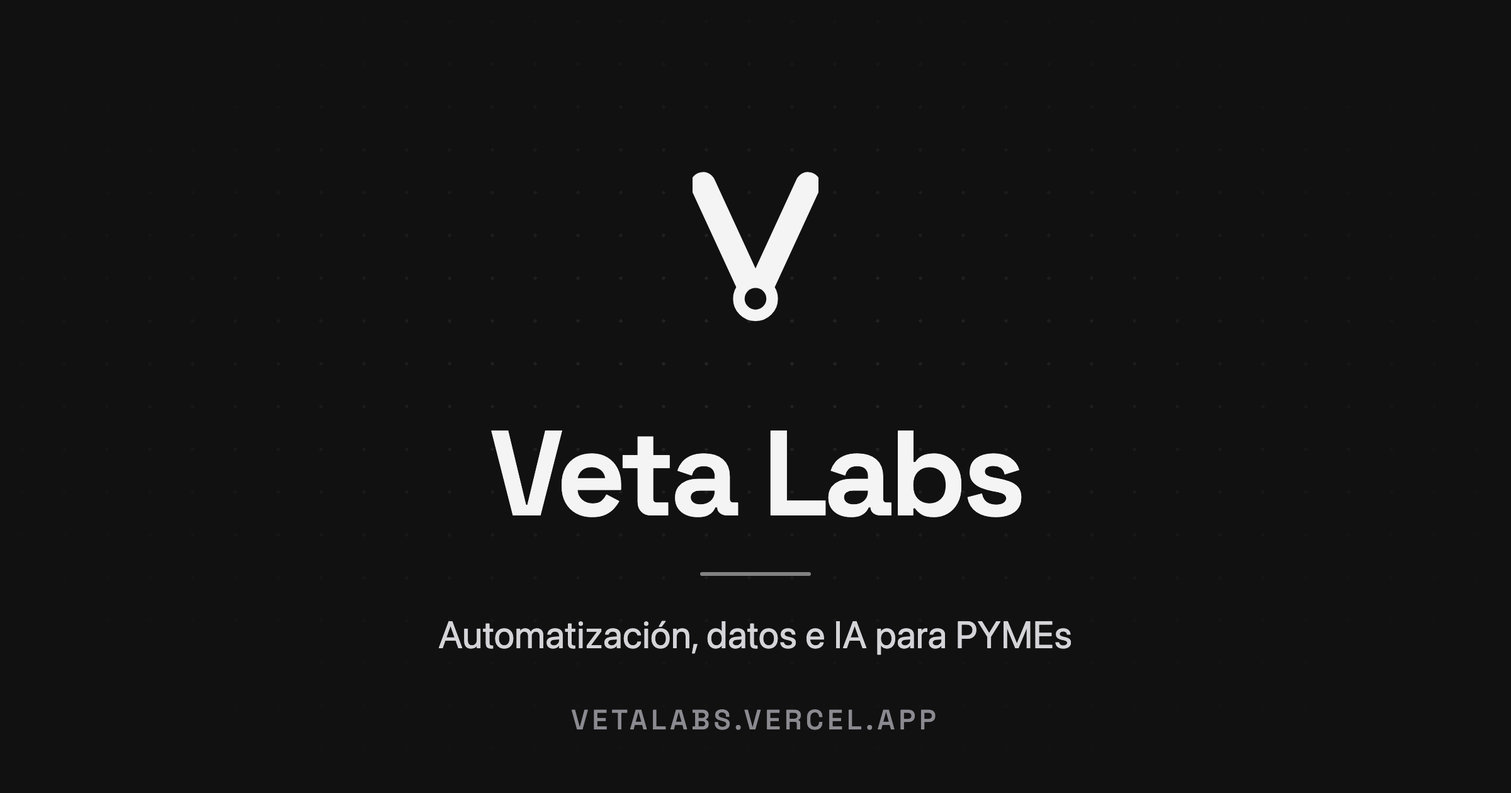
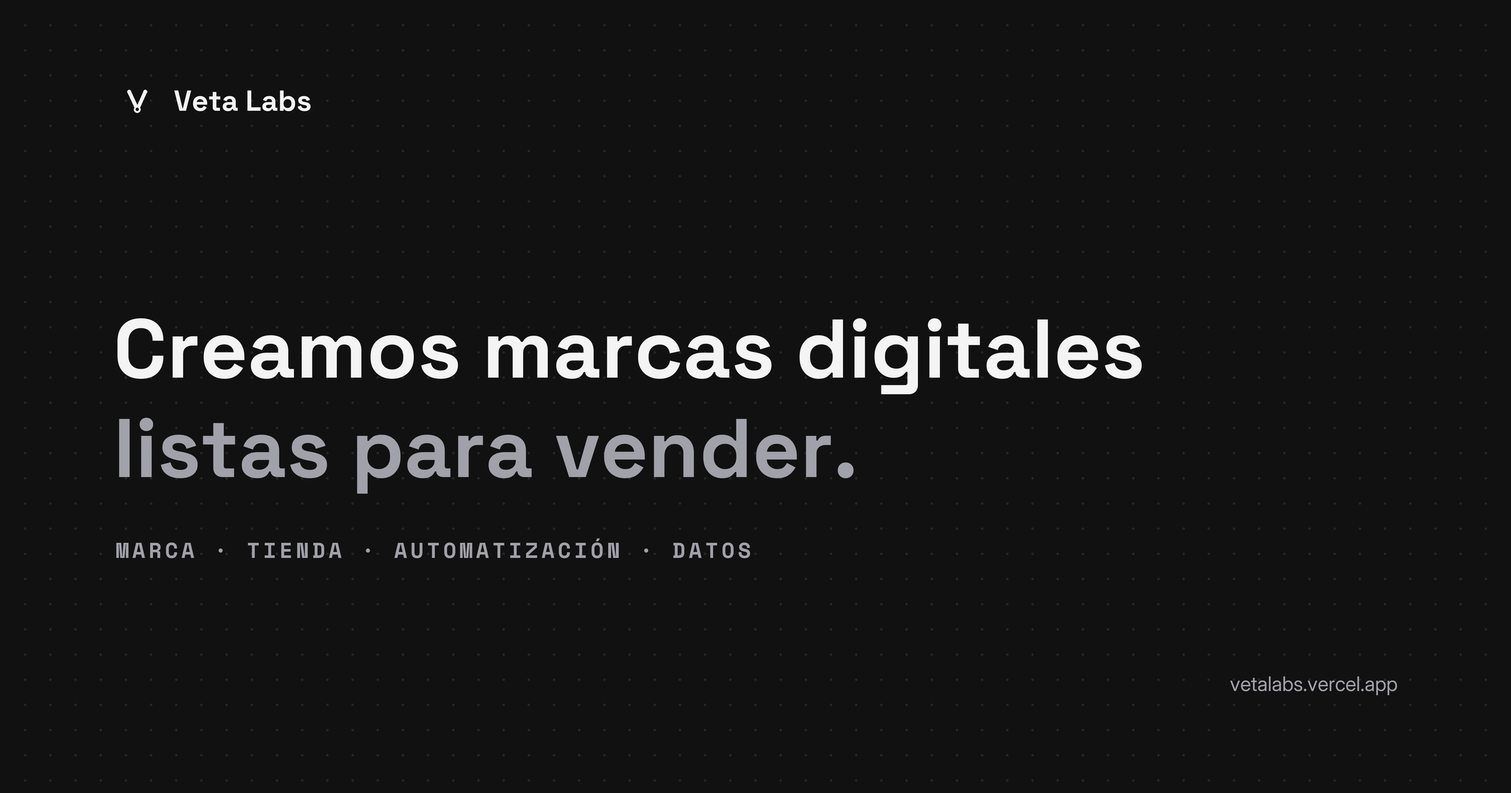
Realinear el sitio al posicionamiento de marcas de e-commerce
El contexto maestro (13-08-2026) redefine Veta Labs como creadora de marcas
digitales de e-commerce, y marca el sitio como desalineado. Esto lo corrige.

- Título SEO, descripción, Open Graph y Twitter: de "automatización e
  inteligencia de datos para PYMEs" a creación de marcas de e-commerce
- Hero: "Creamos marcas digitales listas para vender", con los CTA del manual
- Servicios: las cinco tarjetas eran cinco negocios separados; ahora son las
  cinco partes de un mismo proceso, numeradas y sin emojis
- Proceso: pasa a diagnóstico → estrategia → construcción → lanzamiento
- Resultados: se retiran las cifras -70%, 3x y +40h. Eran de automatización y
  no hay evidencia publicable; el contexto maestro prohíbe métricas sin
  respaldo. En su lugar va lo que el cliente sí recibe
- Proyectos: CheckYourCars y CheckYourWeb pasan de ser la propuesta central a
  evidencia de capacidad técnica, con etiquetas por capacidad y no por servicio
- Formulario: "¿Qué quieres automatizar?" → "¿Qué quieres vender?"
- Pie: "Automatización · IA · Software" → "Marca · Tienda · Automatización · Datos"
- Se retiran los beige fuera de paleta (#c5bdb2, #b8b2aa, #d0c7b8, #a89c8f)

Banner de link preview regenerado con el mensaje vigente y el isotipo nuevo.
El anterior decía "Automatización, datos e IA para PYMEs".

diff --git a/index.html b/index.html
@@ -3,8 +3,8 @@
 <head>
   <meta charset="utf-8">
   <meta name="viewport" content="width=device-width, initial-scale=1">
-  <title>Veta Labs — Automatización e inteligencia de datos para PYMEs</title>
-  <meta name="description" content="Veta Labs automatiza procesos, integra datos y construye software, dashboards e IA para PYMEs. 100% remoto en Chile.">
+  <title>Veta Labs — Creamos marcas digitales de e-commerce</title>
+  <meta name="description" content="Veta Labs crea marcas digitales de e-commerce listas para vender: identidad, tienda online, automatización, IA y datos. 100% remoto en Chile.">
   <meta name="author" content="Veta Labs">
   <meta name="theme-color" content="#111111">
   <link rel="canonical" href="https://vetalabs.vercel.app/">
@@ -14,8 +14,8 @@
   <meta property="og:locale" content="es_CL">
   <meta property="og:url" content="https://vetalabs.vercel.app/">
   <meta property="og:site_name" content="Veta Labs">
-  <meta property="og:title" content="Veta Labs — Automatización e inteligencia de datos para PYMEs">
-  <meta property="og:description" content="Automatizamos procesos, integramos datos y construimos software, dashboards e IA para que tu negocio crezca con calma. 100% remoto en Chile.">
+  <meta property="og:title" content="Veta Labs — Creamos marcas digitales de e-commerce">
+  <meta property="og:description" content="De tu idea a una marca lista para vender. Identidad, tienda online, automatización, IA y datos en un solo proceso.">
   <meta property="og:image" content="https://vetalabs.vercel.app/og-image.png">
   <meta property="og:image:type" content="image/png">
   <meta property="og:image:width" content="2400">
@@ -23,8 +23,8 @@
   <meta property="og:image:alt" content="Isotipo de Veta Labs">
   <!-- Twitter -->
   <meta name="twitter:card" content="summary_large_image">
-  <meta name="twitter:title" content="Veta Labs — Automatización e inteligencia de datos para PYMEs">
-  <meta name="twitter:description" content="Automatizamos procesos, integramos datos y construimos software, dashboards e IA para que tu negocio crezca con calma.">
+  <meta name="twitter:title" content="Veta Labs — Creamos marcas digitales de e-commerce">
+  <meta name="twitter:description" content="De tu idea a una marca lista para vender. Identidad, tienda online, automatización, IA y datos en un solo proceso.">
   <meta name="twitter:image" content="https://vetalabs.vercel.app/og-image.png">
   <meta name="twitter:image:alt" content="Isotipo de Veta Labs">
   <link rel="preconnect" href="https://fonts.googleapis.com">
@@ -37,7 +37,7 @@
   a{color:inherit;text-decoration:none}
   input,textarea{font-family:inherit}
   input:focus,textarea:focus{outline:none;border-color:#71717a !important}
-  ::placeholder{color:#a89c8f}
+  ::placeholder{color:#a1a1aa}
   @keyframes riseIn{from{opacity:0;transform:translateY(20px)}to{opacity:1;transform:none}}
   @keyframes pulseDot{0%,100%{box-shadow:0 0 0 0 rgba(17,17,17,.45)}70%{box-shadow:0 0 0 7px rgba(17,17,17,0)}}
 </style>
@@ -69,25 +69,25 @@
     <div style="max-width:1120px;margin:0 auto;padding:16px clamp(20px,4vw,44px);display:flex;align-items:center;justify-content:space-between;gap:20px;flex-wrap:wrap">
       <a href="#top" style="font:700 18px 'Space Grotesk',sans-serif;letter-spacing:-.02em;display:flex;align-items:center;gap:10px"><svg width="24" height="24" viewBox="0 0 64 64" aria-hidden="true" style="flex:none"><mask id="vt-nav"><rect width="64" height="64" fill="#fff"/><circle cx="32" cy="45.5" r="3" fill="#000"/></mask><g mask="url(#vt-nav)" fill="none" stroke="var(--brand)"><path d="M17.5 14L32 45.5L46.5 14" stroke-width="7" stroke-linecap="round" stroke-linejoin="round"/><circle cx="32" cy="45.5" r="4.6" stroke-width="3.2"/></g></svg>Veta Labs</a>
       <div style="display:flex;gap:26px;align-items:center;font:500 14.5px 'Inter',sans-serif;color:#52525b;flex-wrap:wrap">
-        <a href="#servicios" data-navlink="servicios" style="transition:color .2s" style-hover="color:#111111">Servicios</a>
+        <a href="#servicios" data-navlink="servicios" style="transition:color .2s" style-hover="color:#111111">Qué incluye</a>
         <a href="#proceso" data-navlink="proceso" style="transition:color .2s" style-hover="color:#111111">Proceso</a>
-        <a href="#resultados" data-navlink="resultados" style="transition:color .2s" style-hover="color:#111111">Resultados</a>
-        <a href="#proyectos" data-navlink="proyectos" style="transition:color .2s" style-hover="color:#111111">Proyectos</a>
+        <a href="#resultados" data-navlink="resultados" style="transition:color .2s" style-hover="color:#111111">Qué recibes</a>
+        <a href="#proyectos" data-navlink="proyectos" style="transition:color .2s" style-hover="color:#111111">Evidencia</a>
         <a href="#sobre-mi" data-navlink="sobre-mi" style="transition:color .2s" style-hover="color:#111111">Nosotros</a>
       </div>
-      <a href="#contacto" style="padding:11px 22px;background:var(--brand);color:#f4f4f5;border-radius:100px;font:600 14.5px 'Inter',sans-serif;transition:opacity .2s" style-hover="opacity:.85">Agenda tu reunión</a>
+      <a href="#contacto" style="padding:11px 22px;background:var(--brand);color:#f4f4f5;border-radius:100px;font:600 14.5px 'Inter',sans-serif;transition:opacity .2s" style-hover="opacity:.85">Cuéntanos tu idea</a>
     </div>
   </div>
 
   <!-- ===== HERO ===== -->
   <div id="top" style="max-width:1180px;margin:0 auto;padding:clamp(44px,7vw,88px) clamp(20px,4vw,44px) clamp(32px,5vw,52px);display:grid;grid-template-columns:repeat(auto-fit,minmax(320px,1fr));gap:clamp(36px,5vw,60px);align-items:center">
     <div style="display:flex;flex-direction:column;align-items:flex-start;text-align:left">
-      <div style="display:inline-flex;align-items:center;gap:9px;padding:8px 16px;background:#fff;border:1px solid #e4e4e7;color:#3f3f46;border-radius:100px;font:600 13px 'Inter',sans-serif;margin-bottom:clamp(22px,3vw,30px);animation:riseIn .6s both" id="hero-badge"><span style="width:8px;height:8px;border-radius:50%;background:#111111;display:inline-block;animation:pulseDot 2.4s infinite"></span>Disponible para nuevos proyectos</div>
-      <h1 style="font:700 clamp(38px,6vw,62px)/1.04 'Space Grotesk',sans-serif;letter-spacing:-.03em;margin:0 0 22px;max-width:15ch;animation:riseIn .7s .06s both">Que la tecnología trabaje por ti, <span style="color:#a1a1aa">no al revés</span></h1>
-      <p style="font:400 clamp(17px,2.2vw,21px)/1.55 'Inter',sans-serif;color:#52525b;max-width:520px;margin:0 0 clamp(28px,4vw,40px);animation:riseIn .7s .14s both">Automatizamos tareas, implementamos IA y construimos el software y los dashboards que tu negocio necesita para crecer con calma.</p>
+      <div style="display:inline-flex;align-items:center;gap:9px;padding:8px 16px;background:#fff;border:1px solid #e4e4e7;color:#3f3f46;border-radius:100px;font:600 13px 'Inter',sans-serif;margin-bottom:clamp(22px,3vw,30px);animation:riseIn .6s both" id="hero-badge"><span style="width:8px;height:8px;border-radius:50%;background:#111111;display:inline-block;animation:pulseDot 2.4s infinite"></span>Marcas digitales para e-commerce</div>
+      <h1 style="font:700 clamp(38px,6vw,62px)/1.04 'Space Grotesk',sans-serif;letter-spacing:-.03em;margin:0 0 22px;max-width:15ch;animation:riseIn .7s .06s both">Creamos marcas digitales <span style="color:#a1a1aa">listas para vender</span></h1>
+      <p style="font:400 clamp(17px,2.2vw,21px)/1.55 'Inter',sans-serif;color:#52525b;max-width:520px;margin:0 0 clamp(28px,4vw,40px);animation:riseIn .7s .14s both">Construimos tu identidad, tu tienda online y tu operación digital en un solo proceso, con automatización, IA y datos.</p>
       <div style="display:flex;gap:12px;flex-wrap:wrap;animation:riseIn .7s .22s both">
-        <a href="#contacto" style="padding:16px 32px;background:var(--brand);color:#f4f4f5;border-radius:100px;font:700 15px 'Inter',sans-serif;transition:opacity .2s" style-hover="opacity:.85">Agenda una reunión</a>
-        <a href="#servicios" style="padding:16px 32px;background:#fff;border:1px solid #e4e4e7;border-radius:100px;font:600 15px 'Inter',sans-serif;transition:border-color .2s" style-hover="border-color:#111111">Ver servicios</a>
+        <a href="#contacto" style="padding:16px 32px;background:var(--brand);color:#f4f4f5;border-radius:100px;font:700 15px 'Inter',sans-serif;transition:opacity .2s" style-hover="opacity:.85">Cuéntanos tu idea</a>
+        <a href="#servicios" style="padding:16px 32px;background:#fff;border:1px solid #e4e4e7;border-radius:100px;font:600 15px 'Inter',sans-serif;transition:border-color .2s" style-hover="border-color:#111111">Ver cómo trabajamos</a>
       </div>
     </div>
     <div style="justify-self:center;width:100%;max-width:440px;animation:riseIn .8s .3s both">
@@ -100,24 +100,24 @@
   <!-- ===== TRUST STRIP ===== -->
   <div id="trust-strip" style="max-width:1000px;margin:0 auto;padding:clamp(28px,4vw,44px) clamp(20px,4vw,44px) clamp(48px,7vw,72px)">
     <div style="display:flex;flex-wrap:wrap;justify-content:center;gap:10px 26px;font:500 13.5px 'Inter',sans-serif;color:#71717a">
-      <span>100% remoto en todo Chile</span><span style="color:#d0c7b8">•</span><span>Respuesta en menos de 24 h</span><span style="color:#d0c7b8">•</span><span>Sin permanencia ni letra chica</span>
+      <span>100% remoto en todo Chile</span><span style="color:#d4d4d8">•</span><span>Respuesta en menos de 24 h</span><span style="color:#d4d4d8">•</span><span>Sin permanencia ni letra chica</span>
     </div>
   </div>
 
   <!-- ===== SERVICIOS ===== -->
   <div id="servicios" style="max-width:1120px;margin:0 auto;padding:clamp(40px,6vw,68px) clamp(20px,4vw,44px);scroll-margin-top:72px">
     <div data-reveal="0" style="text-align:center;margin-bottom:clamp(36px,5vw,52px)">
-      <div style="font:700 12px 'Space Mono',monospace;letter-spacing:.14em;color:#a1a1aa;margin-bottom:14px">SERVICIOS</div>
-      <h2 style="font:700 clamp(30px,4.5vw,42px) 'Space Grotesk',sans-serif;letter-spacing:-.02em;margin:0 0 12px">En qué te puedo ayudar</h2>
-      <p style="font:400 17px 'Inter',sans-serif;color:#52525b;margin:0">Cinco formas de sacarte trabajo de encima.</p>
+      <div style="font:700 12px 'Space Mono',monospace;letter-spacing:.14em;color:#a1a1aa;margin-bottom:14px">QUÉ INCLUYE</div>
+      <h2 style="font:700 clamp(30px,4.5vw,42px) 'Space Grotesk',sans-serif;letter-spacing:-.02em;margin:0 0 12px">Todo lo que tu marca necesita para vender</h2>
+      <p style="font:400 17px 'Inter',sans-serif;color:#52525b;margin:0">Un solo proceso, no cinco proveedores distintos.</p>
     </div>
     <div style="display:grid;grid-template-columns:repeat(auto-fit,minmax(280px,1fr));gap:20px">
-      <div data-reveal="0" style="background:#fff;border-radius:20px;padding:32px;border:1px solid #e6e6e8;transition:transform .28s ease,box-shadow .28s ease,border-color .28s ease" style-hover="transform:translateY(-5px);box-shadow:0 22px 44px -26px rgba(36,31,26,.4);border-color:#d4d4d8"><div style="width:48px;height:48px;border-radius:14px;background:#ebebed;display:flex;align-items:center;justify-content:center;font-size:23px;margin-bottom:18px">🚀</div><h3 style="font:600 20px 'Space Grotesk',sans-serif;margin:0 0 9px">Creación de SaaS</h3><p style="font:400 15.5px/1.55 'Inter',sans-serif;color:#52525b;margin:0">De la idea al producto: construimos tu plataforma web completa, del MVP al lanzamiento.</p></div>
-      <div data-reveal="0.06" style="background:#fff;border-radius:20px;padding:32px;border:1px solid #e6e6e8;transition:transform .28s ease,box-shadow .28s ease,border-color .28s ease" style-hover="transform:translateY(-5px);box-shadow:0 22px 44px -26px rgba(36,31,26,.4);border-color:#d4d4d8"><div style="width:48px;height:48px;border-radius:14px;background:#ebebed;display:flex;align-items:center;justify-content:center;font-size:23px;margin-bottom:18px">🤖</div><h3 style="font:600 20px 'Space Grotesk',sans-serif;margin:0 0 9px">Implementación de IA y agentes</h3><p style="font:400 15.5px/1.55 'Inter',sans-serif;color:#52525b;margin:0">Agentes que clasifican, responden y ejecutan tareas por ti: correos, cotizaciones, seguimiento.</p></div>
-      <div data-reveal="0.12" style="background:#fff;border-radius:20px;padding:32px;border:1px solid #e6e6e8;transition:transform .28s ease,box-shadow .28s ease,border-color .28s ease" style-hover="transform:translateY(-5px);box-shadow:0 22px 44px -26px rgba(36,31,26,.4);border-color:#d4d4d8"><div style="width:48px;height:48px;border-radius:14px;background:#ebebed;display:flex;align-items:center;justify-content:center;font-size:23px;margin-bottom:18px">⚙</div><h3 style="font:600 20px 'Space Grotesk',sans-serif;margin:0 0 9px">Automatizaciones</h3><p style="font:400 15.5px/1.55 'Inter',sans-serif;color:#52525b;margin:0">Conectamos tus herramientas —CRM, correo, planillas, facturación— y eliminamos el trabajo manual.</p></div>
-      <div data-reveal="0" style="background:#fff;border-radius:20px;padding:32px;border:1px solid #e6e6e8;transition:transform .28s ease,box-shadow .28s ease,border-color .28s ease" style-hover="transform:translateY(-5px);box-shadow:0 22px 44px -26px rgba(36,31,26,.4);border-color:#d4d4d8"><div style="width:48px;height:48px;border-radius:14px;background:#ebebed;display:flex;align-items:center;justify-content:center;font-size:23px;margin-bottom:18px">🌐</div><h3 style="font:600 20px 'Space Grotesk',sans-serif;margin:0 0 9px">Desarrollo web</h3><p style="font:400 15.5px/1.55 'Inter',sans-serif;color:#52525b;margin:0">Sitios y aplicaciones web a la medida de tu negocio, rápidos y fáciles de mantener.</p></div>
-      <div data-reveal="0.06" style="background:#fff;border-radius:20px;padding:32px;border:1px solid #e6e6e8;transition:transform .28s ease,box-shadow .28s ease,border-color .28s ease" style-hover="transform:translateY(-5px);box-shadow:0 22px 44px -26px rgba(36,31,26,.4);border-color:#d4d4d8"><div style="width:48px;height:48px;border-radius:14px;background:#ebebed;display:flex;align-items:center;justify-content:center;font-size:23px;margin-bottom:18px">📊</div><h3 style="font:600 20px 'Space Grotesk',sans-serif;margin:0 0 9px">Dashboards</h3><p style="font:400 15.5px/1.55 'Inter',sans-serif;color:#52525b;margin:0">Paneles que reúnen tus datos y te muestran qué pasa en tu negocio en tiempo real.</p></div>
-      <div data-reveal="0.12" style="background:var(--brand);color:#f4f4f5;border-radius:20px;padding:32px;display:flex;flex-direction:column;justify-content:center"><h3 style="font:600 20px 'Space Grotesk',sans-serif;margin:0 0 9px">¿No sabes por dónde partir?</h3><p style="font:400 15.5px/1.55 'Inter',sans-serif;color:#c5bdb2;margin:0 0 16px">Agenda una reunión y lo vemos juntos, sin compromiso.</p><a href="#contacto" style="font:700 14.5px 'Inter',sans-serif;color:#f4f4f5;transition:opacity .2s" style-hover="opacity:.7">Hablemos →</a></div>
+      <div data-reveal="0" style="background:#fff;border-radius:20px;padding:32px;border:1px solid #e6e6e8;transition:transform .28s ease,box-shadow .28s ease,border-color .28s ease" style-hover="transform:translateY(-5px);box-shadow:0 22px 44px -26px rgba(17,17,17,.3);border-color:#d4d4d8"><div style="font:700 12px 'Space Mono',monospace;color:#a1a1aa;letter-spacing:.1em;margin-bottom:16px">01</div><h3 style="font:600 20px 'Space Grotesk',sans-serif;margin:0 0 9px">Estrategia de marca</h3><p style="font:400 15.5px/1.55 'Inter',sans-serif;color:#52525b;margin:0">Posicionamiento, propuesta de valor, cliente ideal y el tono con que tu marca habla.</p></div>
+      <div data-reveal="0.06" style="background:#fff;border-radius:20px;padding:32px;border:1px solid #e6e6e8;transition:transform .28s ease,box-shadow .28s ease,border-color .28s ease" style-hover="transform:translateY(-5px);box-shadow:0 22px 44px -26px rgba(17,17,17,.3);border-color:#d4d4d8"><div style="font:700 12px 'Space Mono',monospace;color:#a1a1aa;letter-spacing:.1em;margin-bottom:16px">02</div><h3 style="font:600 20px 'Space Grotesk',sans-serif;margin:0 0 9px">Identidad visual</h3><p style="font:400 15.5px/1.55 'Inter',sans-serif;color:#52525b;margin:0">Logo, colores, tipografías y un sistema visual que se sostiene en cada punto de contacto.</p></div>
+      <div data-reveal="0.12" style="background:#fff;border-radius:20px;padding:32px;border:1px solid #e6e6e8;transition:transform .28s ease,box-shadow .28s ease,border-color .28s ease" style-hover="transform:translateY(-5px);box-shadow:0 22px 44px -26px rgba(17,17,17,.3);border-color:#d4d4d8"><div style="font:700 12px 'Space Mono',monospace;color:#a1a1aa;letter-spacing:.1em;margin-bottom:16px">03</div><h3 style="font:600 20px 'Space Grotesk',sans-serif;margin:0 0 9px">Tienda online</h3><p style="font:400 15.5px/1.55 'Inter',sans-serif;color:#52525b;margin:0">Un e-commerce claro y rápido, pensado para el celular, con pagos y envíos configurados.</p></div>
+      <div data-reveal="0" style="background:#fff;border-radius:20px;padding:32px;border:1px solid #e6e6e8;transition:transform .28s ease,box-shadow .28s ease,border-color .28s ease" style-hover="transform:translateY(-5px);box-shadow:0 22px 44px -26px rgba(17,17,17,.3);border-color:#d4d4d8"><div style="font:700 12px 'Space Mono',monospace;color:#a1a1aa;letter-spacing:.1em;margin-bottom:16px">04</div><h3 style="font:600 20px 'Space Grotesk',sans-serif;margin:0 0 9px">Catálogo y contenido</h3><p style="font:400 15.5px/1.55 'Inter',sans-serif;color:#52525b;margin:0">Colecciones, fichas de producto y descripciones escritas para que el cliente compre.</p></div>
+      <div data-reveal="0.06" style="background:#fff;border-radius:20px;padding:32px;border:1px solid #e6e6e8;transition:transform .28s ease,box-shadow .28s ease,border-color .28s ease" style-hover="transform:translateY(-5px);box-shadow:0 22px 44px -26px rgba(17,17,17,.3);border-color:#d4d4d8"><div style="font:700 12px 'Space Mono',monospace;color:#a1a1aa;letter-spacing:.1em;margin-bottom:16px">05</div><h3 style="font:600 20px 'Space Grotesk',sans-serif;margin:0 0 9px">Automatización, IA y datos</h3><p style="font:400 15.5px/1.55 'Inter',sans-serif;color:#52525b;margin:0">Menos tareas repetitivas, y la medición lista para saber qué producto y qué canal funcionan.</p></div>
+      <div data-reveal="0.12" style="background:var(--brand);color:#f4f4f5;border-radius:20px;padding:32px;display:flex;flex-direction:column;justify-content:center"><h3 style="font:600 20px 'Space Grotesk',sans-serif;margin:0 0 9px">¿Tienes un producto o una idea?</h3><p style="font:400 15.5px/1.55 'Inter',sans-serif;color:#a1a1aa;margin:0 0 16px">Cuéntanos qué quieres vender y armamos el alcance que tenga sentido para tu etapa.</p><a href="#contacto" style="font:700 14.5px 'Inter',sans-serif;color:#f4f4f5;transition:opacity .2s" style-hover="opacity:.7">Hablemos →</a></div>
     </div>
   </div>
 
@@ -125,14 +125,14 @@
   <div id="proceso" style="background:#ebebed;scroll-margin-top:60px">
     <div style="max-width:1120px;margin:0 auto;padding:clamp(48px,7vw,80px) clamp(20px,4vw,44px)">
       <div data-reveal="0" style="text-align:center;margin-bottom:clamp(36px,5vw,48px)">
-        <div style="font:700 12px 'Space Mono',monospace;letter-spacing:.14em;color:#a1a1aa;margin-bottom:14px">CÓMO TRABAJO</div>
-        <h2 style="font:700 clamp(30px,4.5vw,42px) 'Space Grotesk',sans-serif;letter-spacing:-.02em;margin:0">Así trabajamos juntos</h2>
+        <div style="font:700 12px 'Space Mono',monospace;letter-spacing:.14em;color:#a1a1aa;margin-bottom:14px">PROCESO</div>
+        <h2 style="font:700 clamp(30px,4.5vw,42px) 'Space Grotesk',sans-serif;letter-spacing:-.02em;margin:0">De tu idea al lanzamiento</h2>
       </div>
       <div style="display:grid;grid-template-columns:repeat(auto-fit,minmax(220px,1fr));gap:18px">
-        <div data-reveal="0" style="position:relative;background:#f4f4f5;border-radius:18px;padding:30px 28px;overflow:hidden"><span style="position:absolute;top:14px;right:18px;font:700 44px 'Space Grotesk',sans-serif;color:#dedee1">01</span><div style="font:700 12px 'Space Mono',monospace;color:#111111;margin-bottom:14px;letter-spacing:.06em">DIAGNÓSTICO</div><h3 style="font:600 18px 'Space Grotesk',sans-serif;margin:0 0 8px">Entendemos tu operación</h3><p style="font:400 14.5px/1.55 'Inter',sans-serif;color:#52525b;margin:0">Detectamos los cuellos de botella que te cuestan tiempo y dinero.</p></div>
-        <div data-reveal="0.06" style="position:relative;background:#f4f4f5;border-radius:18px;padding:30px 28px;overflow:hidden"><span style="position:absolute;top:14px;right:18px;font:700 44px 'Space Grotesk',sans-serif;color:#dedee1">02</span><div style="font:700 12px 'Space Mono',monospace;color:#111111;margin-bottom:14px;letter-spacing:.06em">PROPUESTA</div><h3 style="font:600 18px 'Space Grotesk',sans-serif;margin:0 0 8px">Diseñamos la solución</h3><p style="font:400 14.5px/1.55 'Inter',sans-serif;color:#52525b;margin:0">Alcance y retorno esperado, claros y sin letra chica.</p></div>
-        <div data-reveal="0.12" style="position:relative;background:#f4f4f5;border-radius:18px;padding:30px 28px;overflow:hidden"><span style="position:absolute;top:14px;right:18px;font:700 44px 'Space Grotesk',sans-serif;color:#dedee1">03</span><div style="font:700 12px 'Space Mono',monospace;color:#111111;margin-bottom:14px;letter-spacing:.06em">IMPLEMENTACIÓN</div><h3 style="font:600 18px 'Space Grotesk',sans-serif;margin:0 0 8px">Construimos e integramos</h3><p style="font:400 14.5px/1.55 'Inter',sans-serif;color:#52525b;margin:0">Todo probado en tu entorno real, paso a paso.</p></div>
-        <div data-reveal="0.18" style="position:relative;background:#f4f4f5;border-radius:18px;padding:30px 28px;overflow:hidden"><span style="position:absolute;top:14px;right:18px;font:700 44px 'Space Grotesk',sans-serif;color:#dedee1">04</span><div style="font:700 12px 'Space Mono',monospace;color:#111111;margin-bottom:14px;letter-spacing:.06em">ACOMPAÑAMIENTO</div><h3 style="font:600 18px 'Space Grotesk',sans-serif;margin:0 0 8px">Mido y optimizo</h3><p style="font:400 14.5px/1.55 'Inter',sans-serif;color:#52525b;margin:0">Te dejamos con algo que funciona solo y sigue mejorando.</p></div>
+        <div data-reveal="0" style="position:relative;background:#f4f4f5;border-radius:18px;padding:30px 28px;overflow:hidden"><span style="position:absolute;top:14px;right:18px;font:700 44px 'Space Grotesk',sans-serif;color:#dedee1">01</span><div style="font:700 12px 'Space Mono',monospace;color:#111111;margin-bottom:14px;letter-spacing:.06em">DIAGNÓSTICO</div><h3 style="font:600 18px 'Space Grotesk',sans-serif;margin:0 0 8px">Entendemos tu producto</h3><p style="font:400 14.5px/1.55 'Inter',sans-serif;color:#52525b;margin:0">Tu producto, tus clientes, dónde vendes hoy y hacia dónde quieres ir.</p></div>
+        <div data-reveal="0.06" style="position:relative;background:#f4f4f5;border-radius:18px;padding:30px 28px;overflow:hidden"><span style="position:absolute;top:14px;right:18px;font:700 44px 'Space Grotesk',sans-serif;color:#dedee1">02</span><div style="font:700 12px 'Space Mono',monospace;color:#111111;margin-bottom:14px;letter-spacing:.06em">ESTRATEGIA</div><h3 style="font:600 18px 'Space Grotesk',sans-serif;margin:0 0 8px">Definimos la marca</h3><p style="font:400 14.5px/1.55 'Inter',sans-serif;color:#52525b;margin:0">Cómo debe posicionarse, verse y hablar tu marca.</p></div>
+        <div data-reveal="0.12" style="position:relative;background:#f4f4f5;border-radius:18px;padding:30px 28px;overflow:hidden"><span style="position:absolute;top:14px;right:18px;font:700 44px 'Space Grotesk',sans-serif;color:#dedee1">03</span><div style="font:700 12px 'Space Mono',monospace;color:#111111;margin-bottom:14px;letter-spacing:.06em">CONSTRUCCIÓN</div><h3 style="font:600 18px 'Space Grotesk',sans-serif;margin:0 0 8px">Identidad y tienda</h3><p style="font:400 14.5px/1.55 'Inter',sans-serif;color:#52525b;margin:0">Diseñamos la identidad y levantamos el e-commerce completo.</p></div>
+        <div data-reveal="0.18" style="position:relative;background:#f4f4f5;border-radius:18px;padding:30px 28px;overflow:hidden"><span style="position:absolute;top:14px;right:18px;font:700 44px 'Space Grotesk',sans-serif;color:#dedee1">04</span><div style="font:700 12px 'Space Mono',monospace;color:#111111;margin-bottom:14px;letter-spacing:.06em">LANZAMIENTO</div><h3 style="font:600 18px 'Space Grotesk',sans-serif;margin:0 0 8px">Lanzamos y te enseñamos</h3><p style="font:400 14.5px/1.55 'Inter',sans-serif;color:#52525b;margin:0">Probamos la compra de punta a punta y te dejamos administrando tu marca.</p></div>
       </div>
     </div>
   </div>
@@ -140,22 +140,22 @@
   <!-- ===== RESULTADOS ===== -->
   <div id="resultados" style="max-width:1120px;margin:0 auto;padding:clamp(48px,7vw,80px) clamp(20px,4vw,44px);text-align:center;scroll-margin-top:72px">
     <div data-reveal="0">
-      <div style="font:700 12px 'Space Mono',monospace;letter-spacing:.14em;color:#a1a1aa;margin-bottom:14px">RESULTADOS</div>
-      <h2 style="font:700 clamp(30px,4.5vw,42px) 'Space Grotesk',sans-serif;letter-spacing:-.02em;margin:0 0 clamp(32px,5vw,44px)">Impacto real en el día a día</h2>
+      <div style="font:700 12px 'Space Mono',monospace;letter-spacing:.14em;color:#a1a1aa;margin-bottom:14px">QUÉ RECIBES</div>
+      <h2 style="font:700 clamp(30px,4.5vw,42px) 'Space Grotesk',sans-serif;letter-spacing:-.02em;margin:0 0 clamp(32px,5vw,44px)">Con qué te quedas al final</h2>
     </div>
     <div style="display:grid;grid-template-columns:repeat(auto-fit,minmax(240px,1fr));gap:20px">
-      <div data-reveal="0" style="background:#fff;border-radius:20px;padding:40px 32px;border:1px solid #e6e6e8"><div style="font:700 clamp(40px,6vw,52px) 'Space Grotesk',sans-serif;color:#111111;margin-bottom:8px;letter-spacing:-.02em">−70%</div><p style="font:500 15.5px/1.5 'Inter',sans-serif;color:#52525b;margin:0">menos tiempo armando cotizaciones</p></div>
-      <div data-reveal="0.08" style="background:#fff;border-radius:20px;padding:40px 32px;border:1px solid #e6e6e8"><div style="font:700 clamp(40px,6vw,52px) 'Space Grotesk',sans-serif;color:#111111;margin-bottom:8px;letter-spacing:-.02em">3×</div><p style="font:500 15.5px/1.5 'Inter',sans-serif;color:#52525b;margin:0">más respuestas a clientes con automatización</p></div>
-      <div data-reveal="0.16" style="background:#fff;border-radius:20px;padding:40px 32px;border:1px solid #e6e6e8"><div style="font:700 clamp(40px,6vw,52px) 'Space Grotesk',sans-serif;color:#111111;margin-bottom:8px;letter-spacing:-.02em">+40h</div><p style="font:500 15.5px/1.5 'Inter',sans-serif;color:#52525b;margin:0">ahorradas al mes por el equipo</p></div>
+      <div data-reveal="0" style="background:#fff;border-radius:20px;padding:40px 32px;border:1px solid #e6e6e8"><div style="font:700 clamp(40px,6vw,52px) 'Space Grotesk',sans-serif;color:#111111;margin-bottom:8px;letter-spacing:-.02em">Marca</div><p style="font:500 15.5px/1.5 'Inter',sans-serif;color:#52525b;margin:0">Identidad completa: logo, colores, tipografías y criterios para mantenerla coherente.</p></div>
+      <div data-reveal="0.08" style="background:#fff;border-radius:20px;padding:40px 32px;border:1px solid #e6e6e8"><div style="font:700 clamp(40px,6vw,52px) 'Space Grotesk',sans-serif;color:#111111;margin-bottom:8px;letter-spacing:-.02em">Tienda</div><p style="font:500 15.5px/1.5 'Inter',sans-serif;color:#52525b;margin:0">Un e-commerce funcionando, con catálogo, pagos y envíos configurados.</p></div>
+      <div data-reveal="0.16" style="background:#fff;border-radius:20px;padding:40px 32px;border:1px solid #e6e6e8"><div style="font:700 clamp(40px,6vw,52px) 'Space Grotesk',sans-serif;color:#111111;margin-bottom:8px;letter-spacing:-.02em">Datos</div><p style="font:500 15.5px/1.5 'Inter',sans-serif;color:#52525b;margin:0">Procesos automatizados y la medición lista para decidir con información real.</p></div>
     </div>
   </div>
 
   <!-- ===== PROYECTOS ===== -->
   <div id="proyectos" style="max-width:1120px;margin:0 auto;padding:clamp(40px,6vw,68px) clamp(20px,4vw,44px);scroll-margin-top:72px">
     <div data-reveal="0" style="text-align:center;margin-bottom:clamp(32px,5vw,48px)">
-      <div style="font:700 12px 'Space Mono',monospace;letter-spacing:.14em;color:#a1a1aa;margin-bottom:14px">PROYECTOS</div>
-      <h2 style="font:700 clamp(30px,4.5vw,42px) 'Space Grotesk',sans-serif;letter-spacing:-.02em;margin:0 0 12px">Lo que he construido</h2>
-      <p style="font:400 17px 'Inter',sans-serif;color:#52525b;margin:0">Productos reales en producción, no maquetas.</p>
+      <div style="font:700 12px 'Space Mono',monospace;letter-spacing:.14em;color:#a1a1aa;margin-bottom:14px">EVIDENCIA</div>
+      <h2 style="font:700 clamp(30px,4.5vw,42px) 'Space Grotesk',sans-serif;letter-spacing:-.02em;margin:0 0 12px">Tecnología que ya construimos</h2>
+      <p style="font:400 17px 'Inter',sans-serif;color:#52525b;margin:0">Plataformas propias en producción. Son la prueba de la capacidad técnica que aplicamos a cada marca.</p>
     </div>
 
     <!-- Feature: CheckYourCars -->
@@ -170,10 +170,10 @@
         </div>
         <p style="font:400 16px/1.6 'Inter',sans-serif;color:#52525b;margin:0 0 18px">SaaS y CRM para automotoras chilenas: centraliza inventario, prospectos y ventas en un solo lugar, con embudo visual, reportes y <strong style="color:#111">descripciones de autos generadas con IA</strong>. Diseño, desarrollo e infraestructura, de la idea a producción.</p>
         <div style="display:flex;flex-wrap:wrap;gap:8px;margin-bottom:22px">
-          <span style="font:600 12.5px 'Inter',sans-serif;color:#3f3f46;background:#f4f4f5;border:1px solid #e4e4e7;padding:6px 12px;border-radius:100px">Creación de SaaS</span>
-          <span style="font:600 12.5px 'Inter',sans-serif;color:#3f3f46;background:#f4f4f5;border:1px solid #e4e4e7;padding:6px 12px;border-radius:100px">IA</span>
-          <span style="font:600 12.5px 'Inter',sans-serif;color:#3f3f46;background:#f4f4f5;border:1px solid #e4e4e7;padding:6px 12px;border-radius:100px">Desarrollo web</span>
-          <span style="font:600 12.5px 'Inter',sans-serif;color:#3f3f46;background:#f4f4f5;border:1px solid #e4e4e7;padding:6px 12px;border-radius:100px">Dashboards</span>
+          <span style="font:600 12.5px 'Inter',sans-serif;color:#3f3f46;background:#f4f4f5;border:1px solid #e4e4e7;padding:6px 12px;border-radius:100px">Plataforma a medida</span>
+          <span style="font:600 12.5px 'Inter',sans-serif;color:#3f3f46;background:#f4f4f5;border:1px solid #e4e4e7;padding:6px 12px;border-radius:100px">IA aplicada</span>
+          <span style="font:600 12.5px 'Inter',sans-serif;color:#3f3f46;background:#f4f4f5;border:1px solid #e4e4e7;padding:6px 12px;border-radius:100px">Automatización</span>
+          <span style="font:600 12.5px 'Inter',sans-serif;color:#3f3f46;background:#f4f4f5;border:1px solid #e4e4e7;padding:6px 12px;border-radius:100px">Datos</span>
         </div>
         <a href="https://www.checkyourcars.cl" target="_blank" rel="noopener" style="align-self:flex-start;padding:14px 26px;background:var(--brand);color:#f4f4f5;border-radius:100px;font:700 14.5px 'Inter',sans-serif;transition:opacity .2s" style-hover="opacity:.85">Visitar checkyourcars.cl ↗</a>
       </div>
@@ -188,8 +188,8 @@
         </div>
         <p style="font:400 16px/1.6 'Inter',sans-serif;color:#52525b;margin:0 0 18px">Estudio de <strong style="color:#111">desarrollo web con IA</strong> para negocios locales —restaurantes, estética, e-commerce—. Sitios rápidos, responsive y orientados a conversión, con demos navegables por industria y prototipo listo en 7–14 días.</p>
         <div style="display:flex;flex-wrap:wrap;gap:8px;margin-bottom:22px">
-          <span style="font:600 12.5px 'Inter',sans-serif;color:#3f3f46;background:#f4f4f5;border:1px solid #e4e4e7;padding:6px 12px;border-radius:100px">Desarrollo web</span>
-          <span style="font:600 12.5px 'Inter',sans-serif;color:#3f3f46;background:#f4f4f5;border:1px solid #e4e4e7;padding:6px 12px;border-radius:100px">IA</span>
+          <span style="font:600 12.5px 'Inter',sans-serif;color:#3f3f46;background:#f4f4f5;border:1px solid #e4e4e7;padding:6px 12px;border-radius:100px">Automatización</span>
+          <span style="font:600 12.5px 'Inter',sans-serif;color:#3f3f46;background:#f4f4f5;border:1px solid #e4e4e7;padding:6px 12px;border-radius:100px">IA aplicada</span>
           <span style="font:600 12.5px 'Inter',sans-serif;color:#3f3f46;background:#f4f4f5;border:1px solid #e4e4e7;padding:6px 12px;border-radius:100px">Diseño</span>
           <span style="font:600 12.5px 'Inter',sans-serif;color:#3f3f46;background:#f4f4f5;border:1px solid #e4e4e7;padding:6px 12px;border-radius:100px">Landing</span>
         </div>
@@ -238,8 +238,8 @@
     <div style="max-width:1120px;margin:0 auto;padding:clamp(56px,8vw,88px) clamp(20px,4vw,44px);display:grid;grid-template-columns:repeat(auto-fit,minmax(300px,1fr));gap:clamp(36px,5vw,56px);align-items:start">
       <div data-reveal="0">
         <div style="font:700 12px 'Space Mono',monospace;letter-spacing:.14em;color:#71717a;margin-bottom:20px">CONTACTO</div>
-        <h2 style="font:700 clamp(32px,5vw,46px)/1.08 'Space Grotesk',sans-serif;letter-spacing:-.02em;margin:0 0 18px">¿Hablamos?<br>Cuéntanos tu proceso.</h2>
-        <p style="font:400 17px/1.6 'Inter',sans-serif;color:#b8b2aa;margin:0 0 34px;max-width:400px">Agenda una reunión de 30 minutos. Vemos qué se puede automatizar y con qué retorno. Sin compromiso.</p>
+        <h2 style="font:700 clamp(32px,5vw,46px)/1.08 'Space Grotesk',sans-serif;letter-spacing:-.02em;margin:0 0 18px">¿Hablamos?<br>Cuéntanos tu idea.</h2>
+        <p style="font:400 17px/1.6 'Inter',sans-serif;color:#a1a1aa;margin:0 0 34px;max-width:400px">Agenda una reunión de 30 minutos. Vemos qué quieres vender y qué necesita tu marca para lograrlo. Sin compromiso.</p>
         <div style="display:flex;flex-direction:column;gap:18px">
           <a href="https://www.linkedin.com/in/sebastián-gonzalo-gómez-pastén/" target="_blank" rel="noopener" style="display:flex;align-items:center;gap:14px;transition:opacity .2s" style-hover="opacity:.7"><span style="width:44px;height:44px;border-radius:12px;background:#2f2f33;display:flex;align-items:center;justify-content:center;font:700 15px 'Space Mono',monospace">in</span><span><span style="display:block;font:700 11px 'Space Mono',monospace;color:#71717a;letter-spacing:.08em">LINKEDIN</span><span style="font:600 16px 'Inter',sans-serif">Sebastián Gómez Pastén</span></span></a>
         </div>
@@ -256,7 +256,7 @@
           <div style="display:flex;flex-direction:column;gap:7px"><label style="font:700 12px 'Space Mono',monospace;color:#71717a;text-transform:uppercase;letter-spacing:.08em">Cargo</label><input id="f-cargo" name="cargo" autocomplete="organization-title" placeholder="Tu cargo" style="width:100%;box-sizing:border-box;background:#111111;border:1px solid #3f3f46;border-radius:10px;padding:14px 15px;font-size:15px;color:#f4f4f5;transition:border-color .2s"></div>
         </div>
         <div style="display:flex;flex-direction:column;gap:7px"><label style="font:700 12px 'Space Mono',monospace;color:#71717a;text-transform:uppercase;letter-spacing:.08em">Negocio o rubro</label><input id="f-negocio" name="negocio" placeholder="¿A qué te dedicas?" style="width:100%;box-sizing:border-box;background:#111111;border:1px solid #3f3f46;border-radius:10px;padding:14px 15px;font-size:15px;color:#f4f4f5;transition:border-color .2s"></div>
-        <div style="display:flex;flex-direction:column;gap:7px"><label style="font:700 12px 'Space Mono',monospace;color:#71717a;text-transform:uppercase;letter-spacing:.08em">¿Qué quieres automatizar?</label><textarea id="f-mensaje" name="mensaje" placeholder="Cuéntanos brevemente" rows="3" style="width:100%;box-sizing:border-box;background:#111111;border:1px solid #3f3f46;border-radius:10px;padding:14px 15px;font-size:15px;color:#f4f4f5;resize:vertical;min-height:88px;transition:border-color .2s"></textarea></div>
+        <div style="display:flex;flex-direction:column;gap:7px"><label style="font:700 12px 'Space Mono',monospace;color:#71717a;text-transform:uppercase;letter-spacing:.08em">¿Qué quieres vender?</label><textarea id="f-mensaje" name="mensaje" placeholder="Tu producto, tu idea o en qué etapa estás" rows="3" style="width:100%;box-sizing:border-box;background:#111111;border:1px solid #3f3f46;border-radius:10px;padding:14px 15px;font-size:15px;color:#f4f4f5;resize:vertical;min-height:88px;transition:border-color .2s"></textarea></div>
         <input id="f-website" name="website" tabindex="-1" autocomplete="off" aria-hidden="true" style="position:absolute;left:-9999px;opacity:0;height:0;width:0;pointer-events:none">
         <button id="f-enviar" type="submit" style="margin-top:4px;padding:16px;background:#f4f4f5;color:#111111;border:none;border-radius:100px;font:700 15px 'Inter',sans-serif;cursor:pointer;display:flex;align-items:center;justify-content:center;gap:8px;transition:opacity .2s" style-hover="opacity:.85">Enviar mensaje</button>
         <p id="f-status" role="status" aria-live="polite" style="display:none;font:600 13.5px/1.5 'Inter',sans-serif;text-align:center;margin:0"></p>
@@ -268,7 +268,7 @@
         <span style="display:flex;align-items:center;gap:9px;font:700 15px 'Space Grotesk',sans-serif;letter-spacing:-.02em;color:#f4f4f5"><svg width="20" height="20" viewBox="0 0 64 64" aria-hidden="true" style="flex:none"><mask id="vt-pie"><rect width="64" height="64" fill="#fff"/><circle cx="32" cy="45.5" r="3" fill="#000"/></mask><g mask="url(#vt-pie)" fill="none" stroke="#f4f4f5"><path d="M17.5 14L32 45.5L46.5 14" stroke-width="7" stroke-linecap="round" stroke-linejoin="round"/><circle cx="32" cy="45.5" r="4.6" stroke-width="3.2"/></g></svg>Veta Labs</span>
         <div style="display:flex;align-items:center;gap:20px;flex-wrap:wrap">
           <a href="https://www.linkedin.com/in/sebastián-gonzalo-gómez-pastén/" target="_blank" rel="noopener" style="transition:color .2s" style-hover="color:#f4f4f5">LinkedIn</a>
-          <span>Automatización · IA · Software · © 2026</span>
+          <span>Marca · Tienda · Automatización · Datos · © 2026</span>
         </div>
       </div>
     </div>
